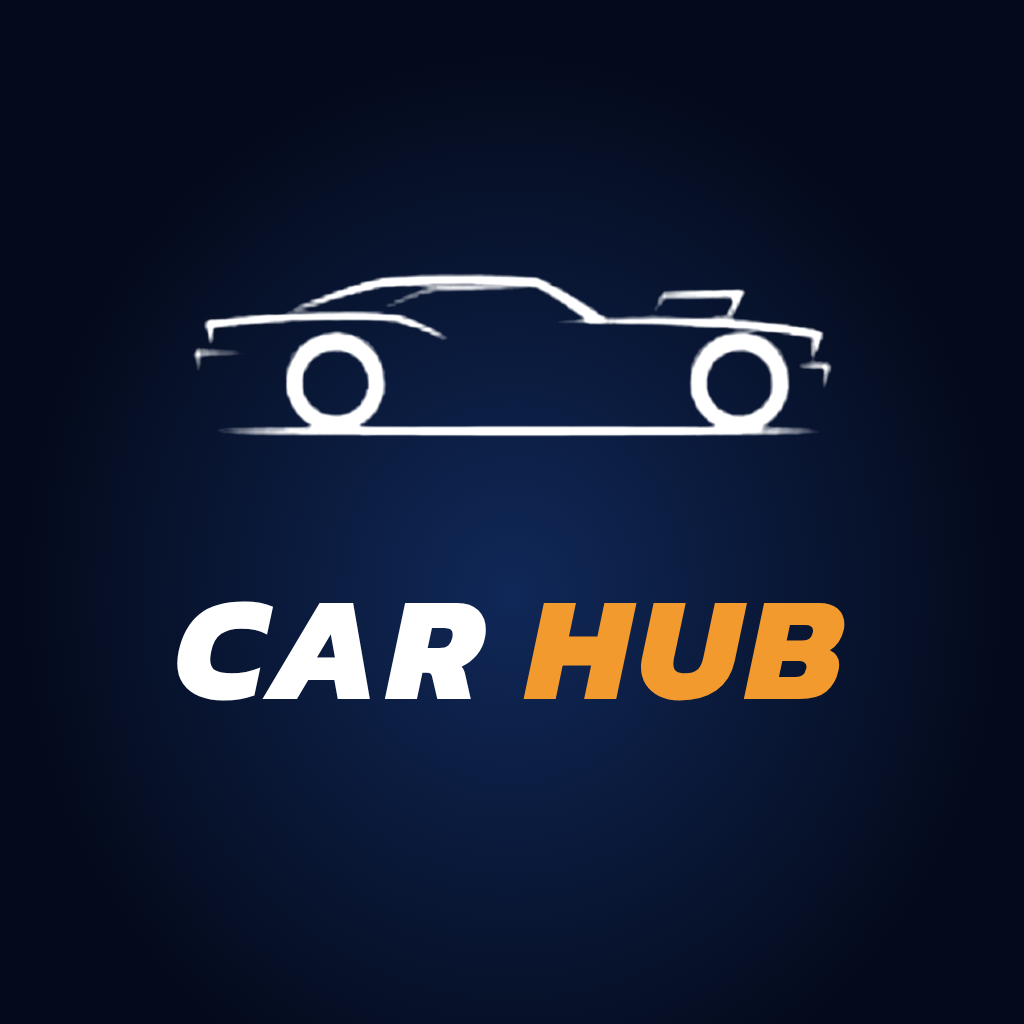
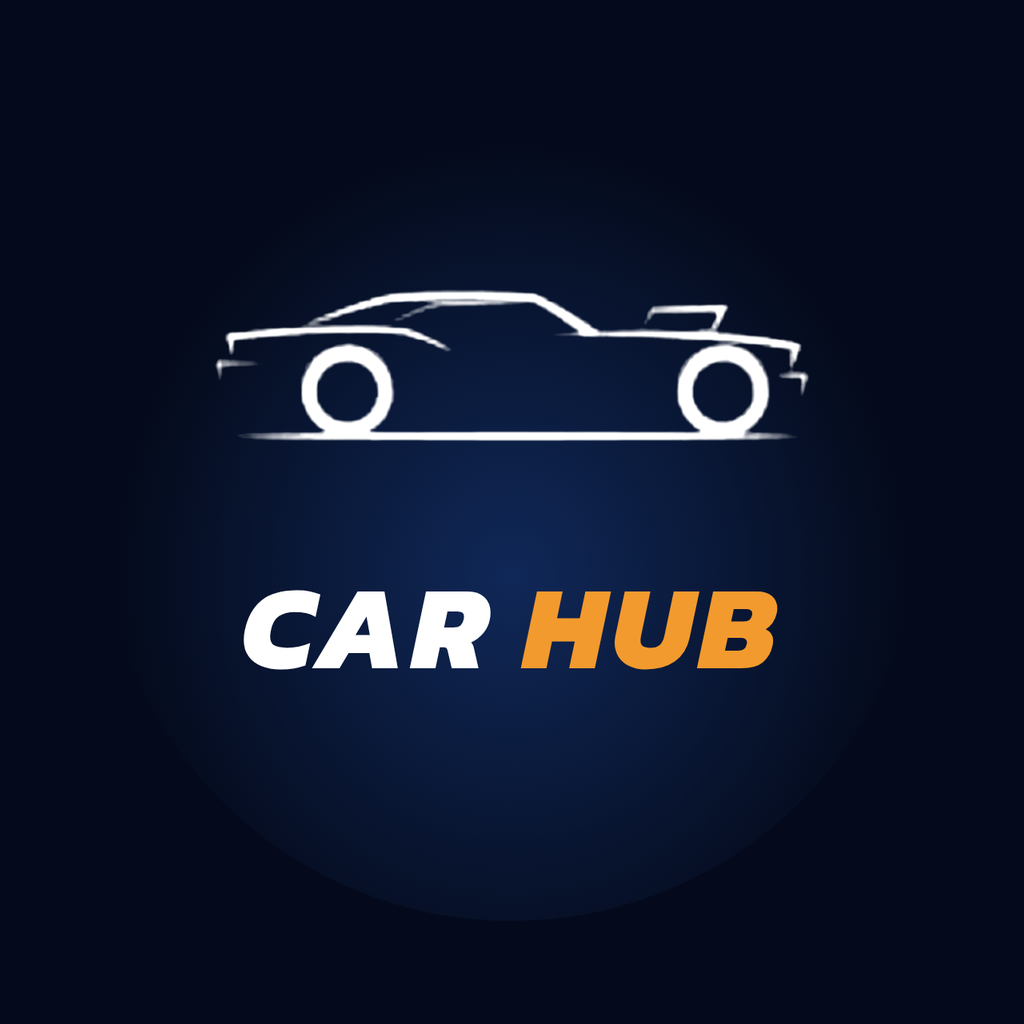
Icona intera nella schermata di avvio: maschera con margine, sfondo uguale; versione 1.1 (non pubblicato)
Claude-Session: https://claude.ai/code/session_0124iXQhnkPW4h4GMR4ZTRGA

Changed region(s): [[0.1562, 0.5625, 0.8438, 0.6875], [0.1875, 0.25, 0.8125, 0.4375]]

diff --git a/version.js b/version.js
@@ -1,6 +1,6 @@
 /* Numero di versione di Car Hub (vale per tutta l'app, Pompa Giusta compresa).
    Si aggiorna a ogni pubblicazione. */
-window.APP_VERSION = { v: '1.0', date: '2026-11-09' }; // la data non viene mostrata
+window.APP_VERSION = { v: '1.1', date: '2026-11-09' }; // la data non viene mostrata
 
 (function () {
   function etichetta(v) { return 'Versione ' + v; }
